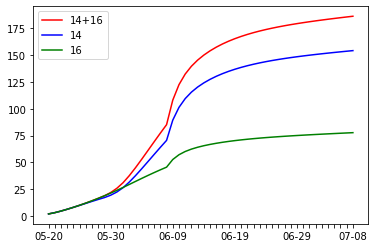
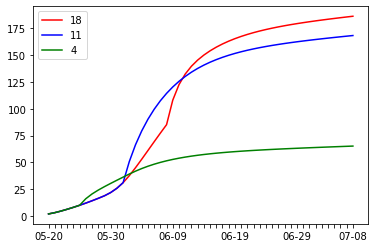
Update final_project

diff --git a/model_2.html b/model_2.html
@@ -13,7 +13,7 @@
       </div>
     </a>
 
-    <h1>Parameters esimation</h1>
+    <h1>Parameters estimation</h1>
     <div class="model_2__image-box">
       <img src="images/params.png" class="model_2__image" />
     </div>

diff --git a/final_project.py b/final_project.py
@@ -56,15 +56,15 @@ gamma = 1 / 13
 beta_0 = 0.06
 beta_1 = 0.03
 
-def create_SSs():
-    import numpy as np
-    n = np.random.randint(1, 6)
-    arr = [[None]*3 for _ in range(n)]
+# def create_SSs():
+#     import numpy as np
+#     n = np.random.randint(1, 6)
+#     arr = [[None]*3 for _ in range(n)]
     
-    for i in range(n):
-        arr[i][0], arr[i][1], arr[i][2] =  np.random.randint(2, 11), np.random.randint(3, 11), np.random.randint(20, 101)
+#     for i in range(n):
+#         arr[i][0], arr[i][1], arr[i][2] =  np.random.randint(2, 11), np.random.randint(3, 11), np.random.randint(20, 101)
         
-    return arr
+#     return arr
 
 for i in range(n):
     if i <= 18:
@@ -117,11 +117,237 @@ plt.figure()
 plt.plot(t, J, 'r') # identified and confirmed; thus, isolated
 # plt.plot(t, R, 'r') # cured or deceased
 # plt.plot(t, df['일별'], 'o-')
-plt.plot(t, df['누적'], 'o-')
+#plt.plot(t, df['누적'], 'o-')
 plt.xticks(np.arange(0, 50), labels = day)
-#plt.legend(['18','11','4'])
+
+a, b, dt = 0, 49, 1
+n = math.floor((b-a) / dt)
+
+E = [21]
+I = [7]
+J = [2]
+R = [0]
+S = [10000 - E[0] - I[0] - J[0]]
+
+t = [0]
+N = 10000
+
+day = [''] * 50
+day[0] = '05-20'
+day[10] = '05-30'
+day[20] = '06-09'
+day[30] = '06-19'
+day[40] = '06-29'
+day[49] = '07-08'
+
+# SSE's Transmission rate
+beta_star_1 = 85/4
+beta_star_2 = 24/9
+
+# Starting time (after the outbreak onset)
+t_1 = 7
+t_2 = 2
+
+# Duration of exposure
+delta_1 = 3
+delta_2 = 8
+
+# Contact reduction in isolated individuals after case confirmed
+l = 0.1
+
+# (1 / kappa) = Incubation period
+kappa = 1 / 6.83
+
+# Isolation rate
+alpha_0 = 1 / 6
+alpha_1 = 1 / 2
+
+# (1 / gamma) = Period of hospital stay
+gamma = 1 / 13
+
+# Transmission rate
+beta_0 = 0.06
+beta_1 = 0.03
+
+# def create_SSs():
+#     import numpy as np
+#     n = np.random.randint(1, 6)
+#     arr = [[None]*3 for _ in range(n)]
+    
+#     for i in range(n):
+#         arr[i][0], arr[i][1], arr[i][2] =  np.random.randint(2, 11), np.random.randint(3, 11), np.random.randint(20, 101)
+        
+#     return arr
+
+for i in range(n):
+    if i <= 11:
+        beta = beta_0
+        alpha = alpha_0
+        l = 0.1
+    else:
+        beta = beta_1
+        alpha = alpha_1
+    # Heaviside step function
+    if t_1 <= i <= t_1 + delta_1:
+        Heaviside_function_1 = 1
+    else:
+        Heaviside_function_1 = 0
+        
+    if t_2 <= i <= t_2 + delta_2:
+        Heaviside_function_2 = 1
+    else:
+        Heaviside_function_2 = 0
+    
+    S.append(S[i] + dt * (
+                            (-beta) * (I[i] + l * J[i]) * S[i] / N 
+                          + (-beta_star_1) * Heaviside_function_1
+                          + (-beta_star_2) * Heaviside_function_2
+                          )
+            )
+    
+    E.append(E[i] + dt * (
+                            (beta) * (I[i] + l * J[i]) * S[i] / N 
+                          + (beta_star_1) * Heaviside_function_1
+                          + (beta_star_2) * Heaviside_function_2
+                          - kappa * E[i]
+                          )
+            )
+    
+    I.append(I[i] + dt * (kappa * E[i] - alpha * I[i]))
+    
+    # J.append(J[i] + dt * (alpha * I[i] - gamma * J[i]))
+    J.append(J[i] + dt * (alpha * I[i]))
+    # J.append(J[i] + dt * (kappa * E[i]))
+    
+    R.append(R[i] + dt * gamma * J[i])
+    
+    t.append(t[i] + dt)
+
+
+# plt.plot(t, S)
+# plt.plot(t, E, 'b') # currently exposed MERS but no symptoms
+# plt.plot(t, I, 'g') # symptoms; but not confirmed
+plt.plot(t, J, 'b') # identified and confirmed; thus, isolated
+# plt.plot(t, R, 'r') # cured or deceased
+# plt.plot(t, df['일별'], 'o-')
+#plt.plot(t, df['누적'], 'o-')
+plt.xticks(np.arange(0, 50), labels = day)
+
+a, b, dt = 0, 49, 1
+n = math.floor((b-a) / dt)
+
+E = [21]
+I = [7]
+J = [2]
+R = [0]
+S = [10000 - E[0] - I[0] - J[0]]
+
+t = [0]
+N = 10000
+
+day = [''] * 50
+day[0] = '05-20'
+day[10] = '05-30'
+day[20] = '06-09'
+day[30] = '06-19'
+day[40] = '06-29'
+day[49] = '07-08'
+
+# SSE's Transmission rate
+beta_star_1 = 85/4
+beta_star_2 = 24/9
+
+# Starting time (after the outbreak onset)
+t_1 = 7
+t_2 = 2
+
+# Duration of exposure
+delta_1 = 3
+delta_2 = 8
+
+# Contact reduction in isolated individuals after case confirmed
+l = 0.1
+
+# (1 / kappa) = Incubation period
+kappa = 1 / 6.83
+
+# Isolation rate
+alpha_0 = 1 / 6
+alpha_1 = 1 / 2
+
+# (1 / gamma) = Period of hospital stay
+gamma = 1 / 13
+
+# Transmission rate
+beta_0 = 0.06
+beta_1 = 0.03
+
+# def create_SSs():
+#     import numpy as np
+#     n = np.random.randint(1, 6)
+#     arr = [[None]*3 for _ in range(n)]
+    
+#     for i in range(n):
+#         arr[i][0], arr[i][1], arr[i][2] =  np.random.randint(2, 11), np.random.randint(3, 11), np.random.randint(20, 101)
+        
+#     return arr
+
+for i in range(n):
+    if i <= 4:
+        beta = beta_0
+        alpha = alpha_0
+        l = 0.1
+    else:
+        beta = beta_1
+        alpha = alpha_1
+    # Heaviside step function
+    if t_1 <= i <= t_1 + delta_1:
+        Heaviside_function_1 = 1
+    else:
+        Heaviside_function_1 = 0
+        
+    if t_2 <= i <= t_2 + delta_2:
+        Heaviside_function_2 = 1
+    else:
+        Heaviside_function_2 = 0
+    
+    S.append(S[i] + dt * (
+                            (-beta) * (I[i] + l * J[i]) * S[i] / N 
+                          #+ (-beta_star_1) * Heaviside_function_1
+                          + (-beta_star_2) * Heaviside_function_2
+                          )
+            )
+    
+    E.append(E[i] + dt * (
+                            (beta) * (I[i] + l * J[i]) * S[i] / N 
+                          #+ (beta_star_1) * Heaviside_function_1
+                          + (beta_star_2) * Heaviside_function_2
+                          - kappa * E[i]
+                          )
+            )
+    
+    I.append(I[i] + dt * (kappa * E[i] - alpha * I[i]))
+    
+    # J.append(J[i] + dt * (alpha * I[i] - gamma * J[i]))
+    J.append(J[i] + dt * (alpha * I[i]))
+    # J.append(J[i] + dt * (kappa * E[i]))
+    
+    R.append(R[i] + dt * gamma * J[i])
+    
+    t.append(t[i] + dt)
+
+#plt.figure()
+# plt.plot(t, S)
+# plt.plot(t, E, 'b') # currently exposed MERS but no symptoms
+# plt.plot(t, I, 'g') # symptoms; but not confirmed
+plt.plot(t, J, 'g') # identified and confirmed; thus, isolated
+# plt.plot(t, R, 'r') # cured or deceased
+# plt.plot(t, df['일별'], 'o-')
+#plt.plot(t, df['누적'], 'o-')
+plt.xticks(np.arange(0, 50), labels = day)
+plt.legend(['18','11','4'])
 #plt.legend(['isolated', 'recoverd', 'daily', 'consum'])
-plt.legend(['modelling','data-accumulation'])
+#plt.legend(['modelling','data-accumulation'])
 plt.show()
 
 '''
